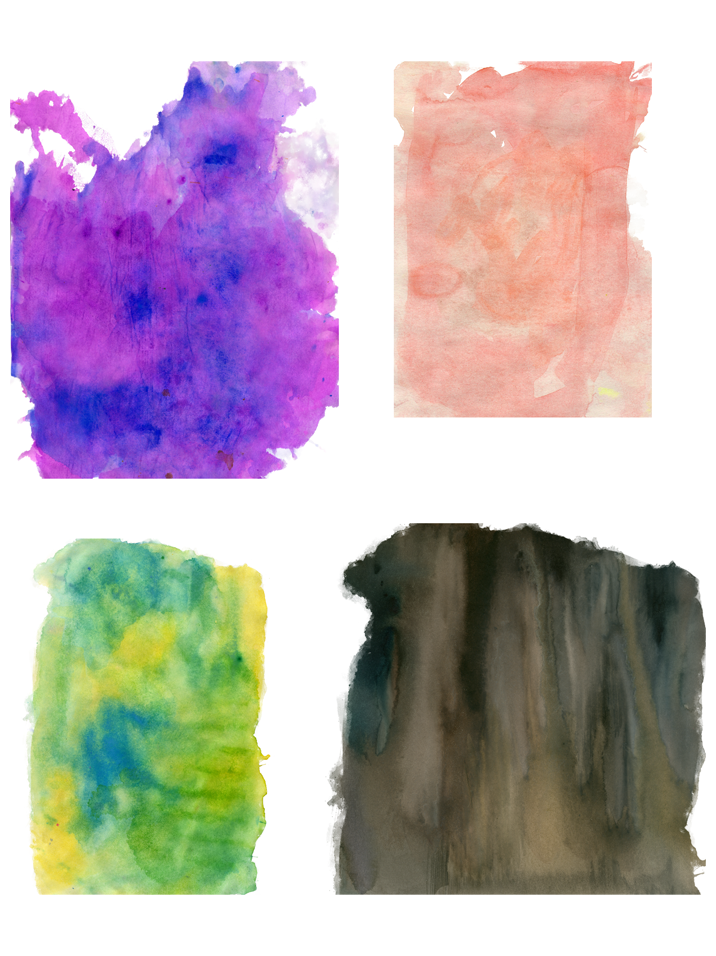
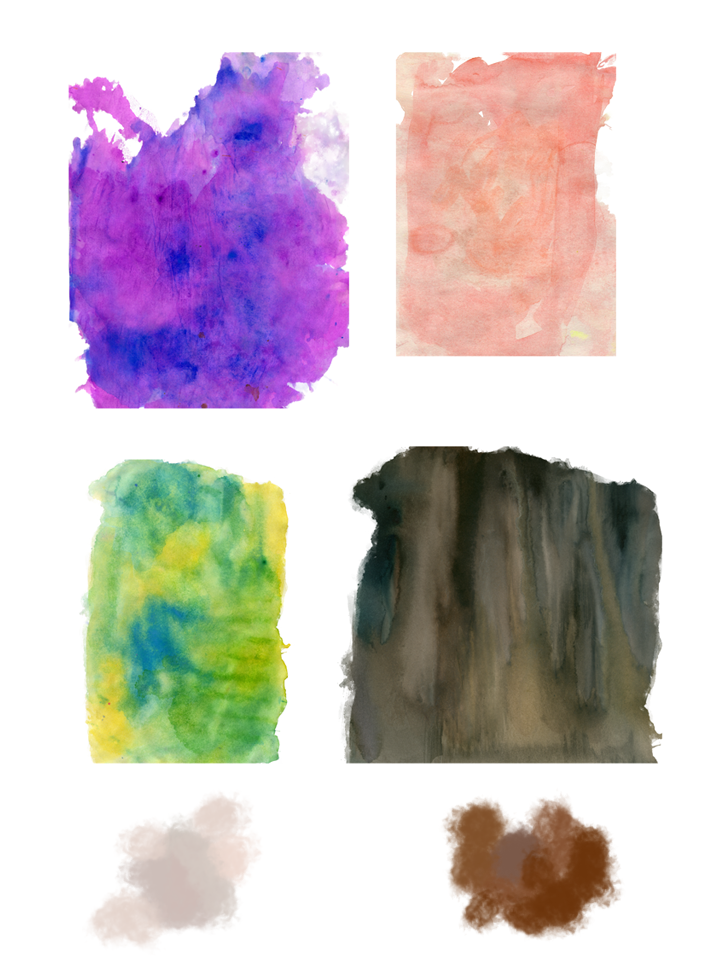
added target boundary mask

diff --git a/patchmatch.cpp b/patchmatch.cpp
@@ -13,7 +13,7 @@ NNF Patchmatch::run_patchmatch(const Image& target,
     NNF nnf;
     rng.seed(std::random_device{}());
 
-        initializeNNF(target, source, nnf, patchRadius, prevNNF);
+    initializeNNF(target, source, nnf, patchRadius, prevNNF);
 
     for(int i = 0; i < iterations; i++){
         if(i%2==0){ //Forward propogation
@@ -316,5 +316,36 @@ NNF Patchmatch::upscaleNNF(const NNF& nnf, int oldWidth, int oldHeight,
     }
 
     return upsampled;
+}
+
+std::vector<bool> createEdgeMask(const Image& target){
+    std::vector<bool> edgeMask(target.height*target.width, false);
+
+    int WHITE_THRESHOLD = 200;
+    int BOUNDARY_DIST = 10;
+
+    for(int y = 1; y < target.height-1; y++){
+        for(int x = 1; x < target.width-1; x++){
+            RGB color = ImageUtils::rgbAt(target, x, y);
+            bool isWhite = (color.r >= WHITE_THRESHOLD)
+                           && (color.g >= WHITE_THRESHOLD)
+                           && (color.b >= WHITE_THRESHOLD);
+
+            bool hasNeighbor = false;
+
+            for(int dy = -BOUNDARY_DIST; dy < BOUNDARY_DIST; dy++){
+                for(int dx = - BOUNDARY_DIST; dx < BOUNDARY_DIST; dx++){
+                    RGB n = ImageUtils::rgbAt(target, dx, dy);
+                    if(n.r < WHITE_THRESHOLD && n.g < WHITE_THRESHOLD && n.b < WHITE_THRESHOLD)
+                        hasNeighbor = true;
+                }
+            }
+
+            edgeMask[y*target.width + x] = isWhite && hasNeighbor || !isWhite && hasNeighbor;
+
+        }
+    }
+
+    return edgeMask;
 }
 

diff --git a/cult.cpp b/cult.cpp
@@ -401,12 +401,12 @@ RGB Cult::modeVote(const std::vector<RGB>& votes) {
 // }
 
 Image Cult::deformImage(const Image& image){
-    int gridSize = 50; //make this class variable
+    int gridSize = GRID_SIZE; //make this class variable
 
     thread_local std::mt19937 rng(std::random_device{}());
     std::uniform_real_distribution<float> angleDist(0.f, 2.f * M_PI);
     // std::uniform_real_distribution<float> magnitudeDist(15.f, 25.f);
-    std::uniform_real_distribution<float> magnitudeDist(40.f, 60.f);
+    std::uniform_real_distribution<float> magnitudeDist(2.f, 7.f);
 
     std::vector<Eigen::Vector2f> originalPoints;
     std::vector<Eigen::Vector2f> deformedPoints;

diff --git a/mainwindow.h b/mainwindow.h
@@ -20,7 +20,7 @@ public:
 
 private:
     QString dirpath = "../color-me-noisy/output_frames";
-    QString m_texturePath = "../color-me-noisy/textures/texture_resized.png"; //Path to image texture
+    QString m_texturePath = "../color-me-noisy/textures/texture_new.png"; //Path to image texture
     //QString m_texturePath = "../color-me-noisy/textures/S.png"; //Path to image texture
     QString m_videoPath = "../color-me-noisy/source_videos/walker.mov";
     QStringList m_framePaths; // sorted list of image file paths

diff --git a/cult.h b/cult.h
@@ -40,11 +40,11 @@ private:
     Image vote(const Image& target, const Image& source, NNF& nnf);
     RGB modeVote(const std::vector<RGB>& votes);
     
-    const int PATCH_RADIUS = 10;
+    const int PATCH_RADIUS = 8;
     const int PATCHMATCH_ITERATIONS = 4;
     const int WEXLER_ITERS = 2;
     const float FILTER_STRENGTH = 0.5;
-    const int GRID_SIZE = 50;
+    const int GRID_SIZE = 100;
 };
 
 #endif // CULT_H

diff --git a/patchmatch.h b/patchmatch.h
@@ -50,6 +50,7 @@ private:
                              const Image& source,
                              NNF& nnf,
                              int patchRadius);
+    static std::vector<bool> createEdgeMask(const Image& target);
 
 };
 
